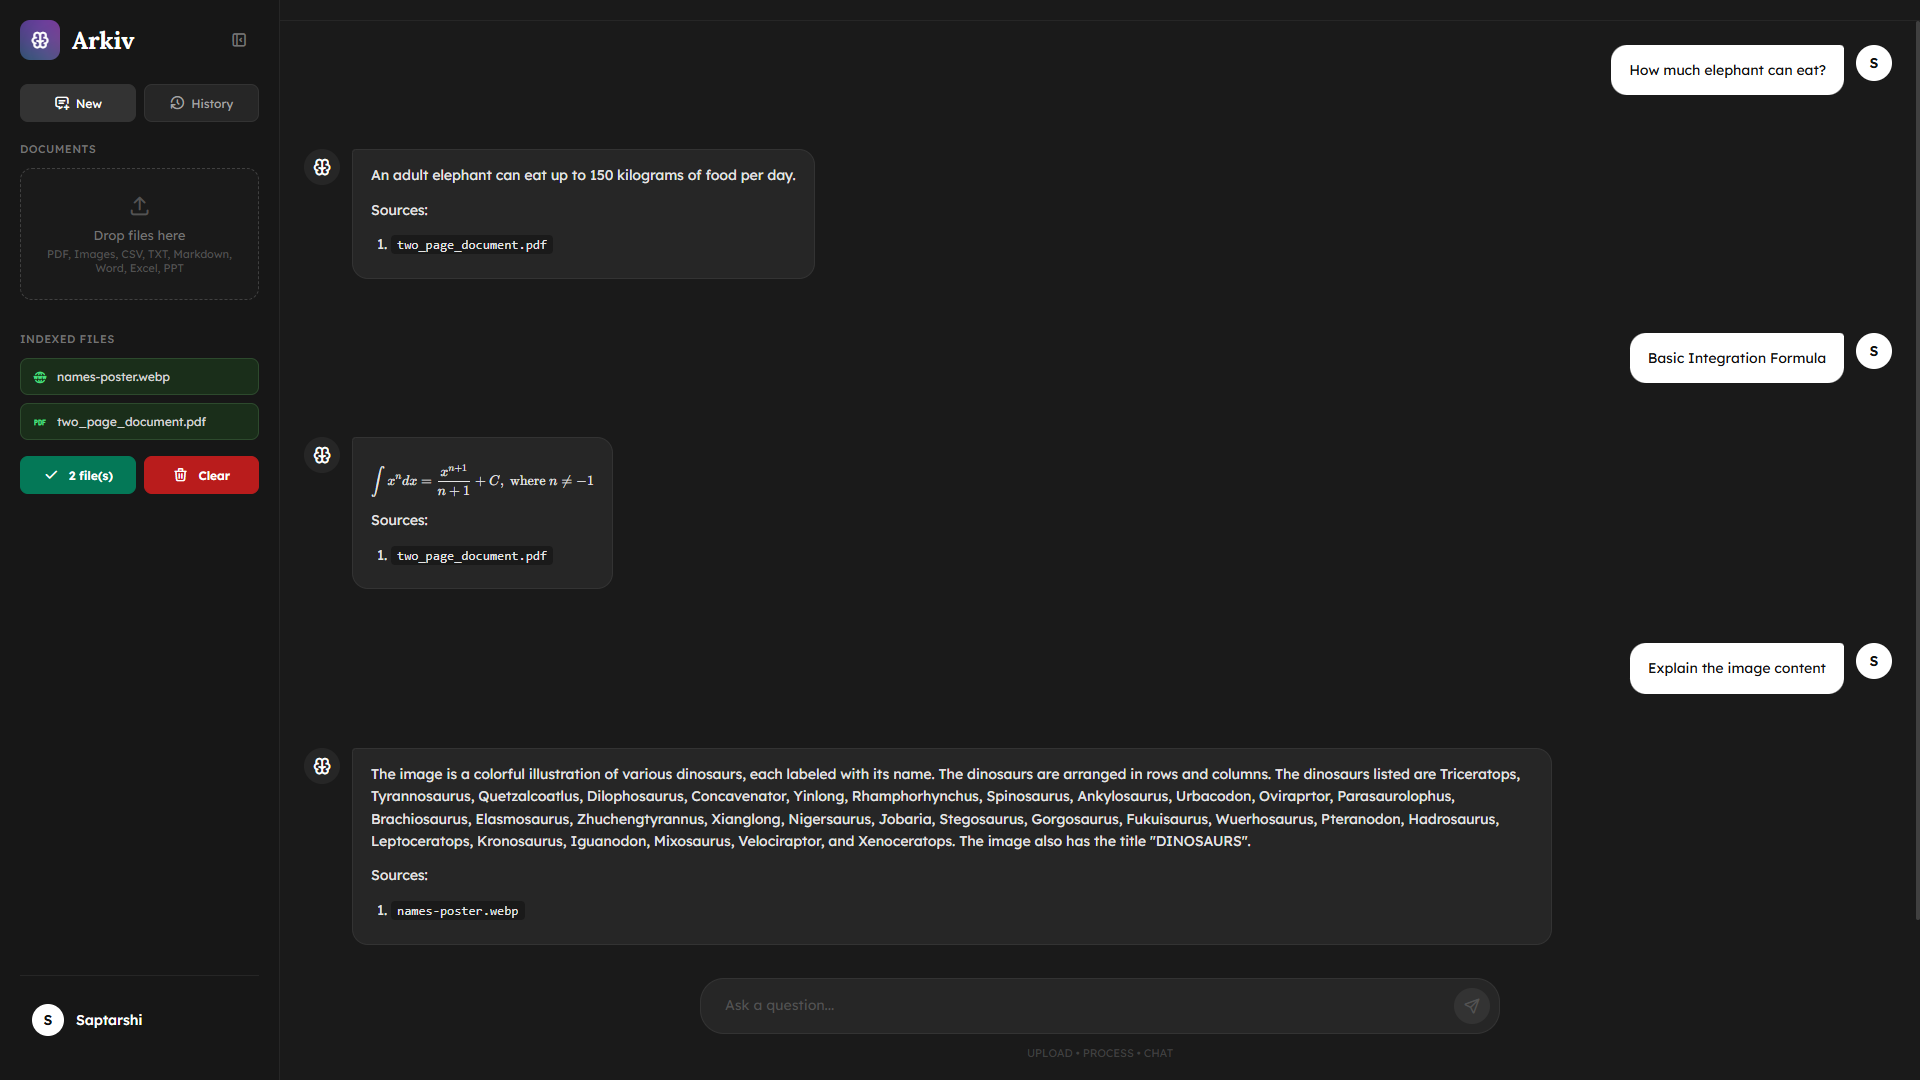
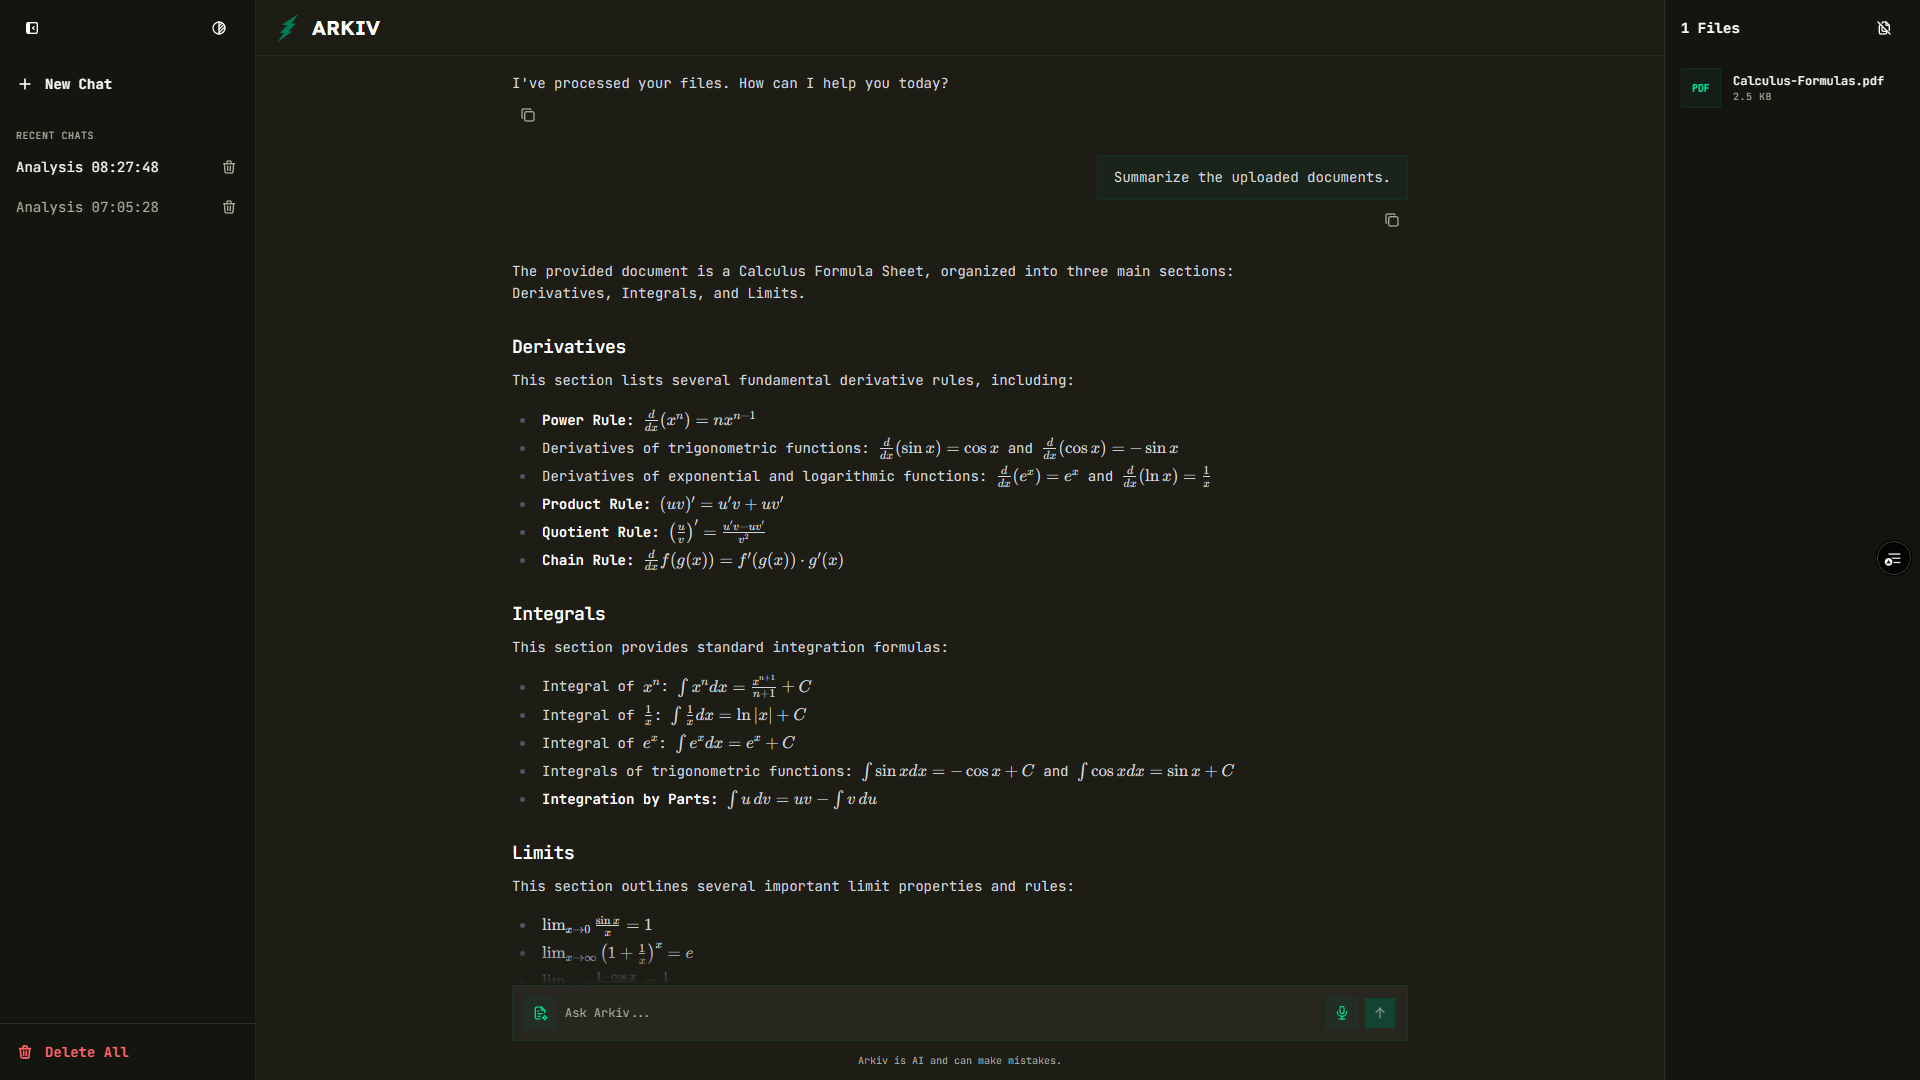
Update Arkiv

diff --git a/src/data/resume.tsx b/src/data/resume.tsx
@@ -283,7 +283,7 @@ export const DATA = {
     {
       title: "Arkiv",
       href: "https://arkiv.hirishi.in",
-      dates: "Dec 2025 - Present",
+      dates: "Dec 2025 - May 2026",
       description:
         "A multi-file-format RAG application for context-aware conversations & accurate information retrieval from uploaded files.",
       technologies: [
